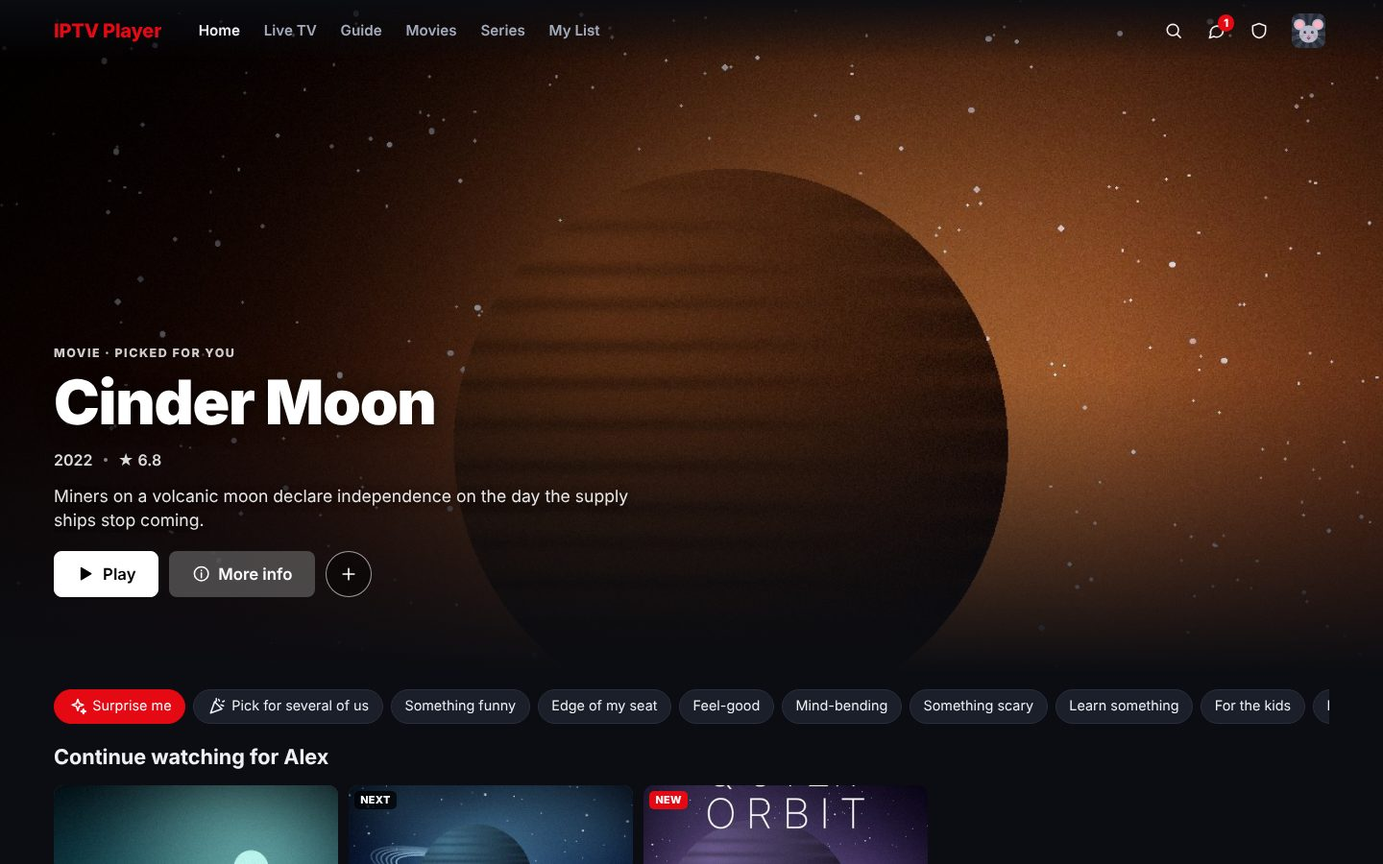
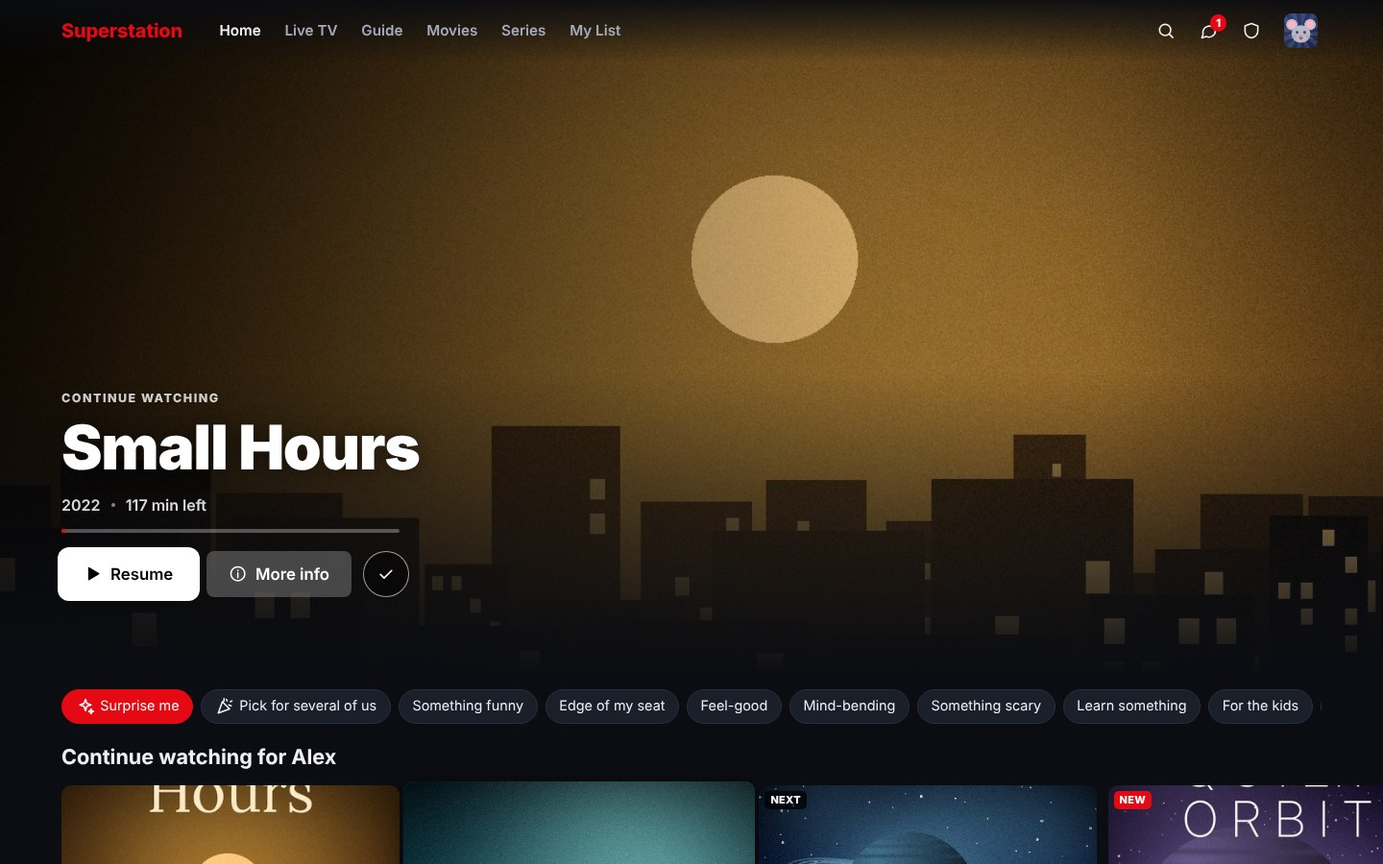
Renamed to Superstation IPTV, version 2.3.0; old backups, links and installs keep working; README opens with what people search for, a one-page website in docs, image labels and package keywords; new home screenshot

diff --git a/docs/index.html b/docs/index.html
@@ -1,0 +1,173 @@
+<!doctype html>
+<html lang="en">
+<head>
+<meta charset="utf-8">
+<meta name="viewport" content="width=device-width, initial-scale=1">
+<title>Superstation IPTV: self-hosted IPTV player, TV guide and DVR in your browser</title>
+<meta name="description" content="Superstation IPTV is a free, self-hosted IPTV player for your household. M3U playlists and Xtream Codes accounts become a Netflix-style app with a TV guide, DVR and profiles, in any web browser. Nothing to install on any device.">
+<link rel="canonical" href="https://austin-72.github.io/superstation-iptv/">
+<meta property="og:type" content="website">
+<meta property="og:title" content="Superstation IPTV: self-hosted IPTV player, TV guide and DVR">
+<meta property="og:description" content="Your M3U playlists and Xtream Codes accounts, turned into a Netflix-style app for the whole household. Runs in any browser. Free and open source.">
+<meta property="og:url" content="https://austin-72.github.io/superstation-iptv/">
+<meta property="og:image" content="https://austin-72.github.io/superstation-iptv/screenshots/home.jpg">
+<meta name="twitter:card" content="summary_large_image">
+<meta name="theme-color" content="#0b0d12">
+<script type="application/ld+json">
+{
+  "@context": "https://schema.org",
+  "@type": "SoftwareApplication",
+  "name": "Superstation IPTV",
+  "alternateName": "Browser IPTV Player",
+  "applicationCategory": "MultimediaApplication",
+  "operatingSystem": "Docker, Linux, Windows, macOS",
+  "description": "A self-hosted IPTV player, TV guide and DVR for a household, used from any web browser. Plays M3U playlists and Xtream Codes accounts.",
+  "url": "https://austin-72.github.io/superstation-iptv/",
+  "codeRepository": "https://github.com/austin-72/superstation-iptv",
+  "license": "https://opensource.org/licenses/MIT",
+  "offers": { "@type": "Offer", "price": "0", "priceCurrency": "USD" }
+}
+</script>
+<style>
+  :root { --bg: #0b0d12; --bg2: #141720; --card: #1b1f2a; --line: #2a2f3d; --text: #eef0f5; --dim: #a3abbd; --accent: #e50914; --max: 68rem; }
+  * { box-sizing: border-box; }
+  html { scroll-behavior: smooth; }
+  body { margin: 0; background: var(--bg); color: var(--text); font: 17px/1.6 system-ui, -apple-system, "Segoe UI", Roboto, "Helvetica Neue", Arial, sans-serif; -webkit-text-size-adjust: 100%; }
+  a { color: inherit; }
+  .wrap { max-width: var(--max); margin: 0 auto; padding: 0 1.25rem; }
+  header.top { display: flex; align-items: center; justify-content: space-between; gap: 1rem; padding: 1.1rem 0; }
+  .brand { font-weight: 850; font-size: 1.3rem; letter-spacing: -.01em; color: #ff3b45; text-decoration: none; }
+  .brand span { color: var(--text); font-weight: 600; }
+  nav a { color: var(--dim); text-decoration: none; margin-left: 1.3rem; font-weight: 600; font-size: .95rem; }
+  nav a:hover, nav a:focus-visible { color: var(--text); }
+  .hero { padding: 3.5rem 0 2rem; text-align: center; }
+  h1 { font-size: clamp(2.1rem, 5.2vw, 3.6rem); line-height: 1.08; letter-spacing: -.03em; margin: 0 auto 1.1rem; max-width: 18ch; }
+  .lede { font-size: clamp(1.05rem, 2.1vw, 1.3rem); color: var(--dim); max-width: 46rem; margin: 0 auto 1.8rem; }
+  .lede b { color: var(--text); font-weight: 600; }
+  .cta { display: flex; gap: .8rem; justify-content: center; flex-wrap: wrap; }
+  .btn { display: inline-block; padding: .8rem 1.4rem; border-radius: 10px; font-weight: 700; text-decoration: none; border: 1px solid var(--line); background: var(--card); }
+  .btn.primary { background: var(--accent); border-color: var(--accent); color: #fff; }
+  .btn:hover, .btn:focus-visible { filter: brightness(1.12); }
+  .shot { margin: 2.6rem auto 0; border: 1px solid var(--line); border-radius: 14px; overflow: hidden; box-shadow: 0 30px 80px rgba(0, 0, 0, .55); max-width: 62rem; }
+  .shot img, .pair img { display: block; width: 100%; height: auto; }
+  .note { color: var(--dim); font-size: .92rem; max-width: 46rem; margin: 1.4rem auto 0; }
+  section { padding: 3.6rem 0 0; }
+  h2 { font-size: clamp(1.5rem, 3vw, 2.1rem); letter-spacing: -.02em; line-height: 1.2; margin: 0 0 .5rem; }
+  .sub { color: var(--dim); margin: 0 0 1.8rem; max-width: 44rem; }
+  .grid { display: grid; grid-template-columns: repeat(auto-fit, minmax(17rem, 1fr)); gap: 1rem; }
+  .card { background: var(--card); border: 1px solid var(--line); border-radius: 14px; padding: 1.2rem 1.3rem; }
+  .card h3 { margin: 0 0 .35rem; font-size: 1.08rem; }
+  .card p { margin: 0; color: var(--dim); font-size: .97rem; }
+  .pair { display: grid; grid-template-columns: repeat(2, 1fr); gap: 1rem; }
+  .pair figure { margin: 0; border: 1px solid var(--line); border-radius: 12px; overflow: hidden; background: var(--bg2); }
+  .pair figcaption { padding: .7rem .9rem; color: var(--dim); font-size: .92rem; }
+  pre { background: #06070a; border: 1px solid var(--line); border-radius: 12px; padding: 1rem 1.2rem; overflow-x: auto; font: .95rem/1.55 ui-monospace, SFMono-Regular, Menlo, Consolas, monospace; color: #dfe5f2; margin: 0 0 1rem; }
+  table { width: 100%; border-collapse: collapse; font-size: .96rem; }
+  .tbl { overflow-x: auto; border: 1px solid var(--line); border-radius: 12px; }
+  th, td { text-align: left; padding: .7rem .9rem; border-bottom: 1px solid var(--line); vertical-align: top; }
+  tr:last-child td { border-bottom: 0; }
+  th { color: var(--dim); font-weight: 600; background: var(--bg2); }
+  td:first-child { color: var(--dim); white-space: nowrap; }
+  details { border-bottom: 1px solid var(--line); padding: .9rem 0; }
+  summary { cursor: pointer; font-weight: 650; }
+  details p { color: var(--dim); margin: .6rem 0 0; max-width: 48rem; }
+  footer { margin-top: 4rem; padding: 2rem 0 3rem; border-top: 1px solid var(--line); color: var(--dim); font-size: .92rem; }
+  footer a { color: var(--text); }
+  :focus-visible { outline: 2px solid #fff; outline-offset: 3px; border-radius: 6px; }
+  @media (max-width: 700px) { .pair { grid-template-columns: 1fr; } }
+  @media (max-width: 560px) { nav a:not(.keep) { display: none; } .hero { padding-top: 2rem; } body { font-size: 16px; } }
+</style>
+</head>
+<body>
+<div class="wrap">
+  <header class="top">
+    <a class="brand" href="./">Superstation <span>IPTV</span></a>
+    <nav aria-label="Sections">
+      <a href="#features">Features</a>
+      <a href="#install">Install</a>
+      <a href="#compare">Compare</a>
+      <a href="#faq">FAQ</a>
+      <a class="keep" href="https://github.com/austin-72/superstation-iptv">GitHub</a>
+    </nav>
+  </header>
+
+  <main>
+    <div class="hero">
+      <h1>Your IPTV, as one app for the whole house</h1>
+      <p class="lede">Superstation IPTV is a free, <b>self-hosted IPTV player</b>. Your M3U playlists and Xtream Codes accounts become a Netflix-style app with a <b>TV guide</b>, a <b>DVR</b> and a profile for everyone, in <b>any web browser</b>. Nothing to install on any device.</p>
+      <div class="cta">
+        <a class="btn primary" href="#install">Install with Docker</a>
+        <a class="btn" href="https://github.com/austin-72/superstation-iptv">See it on GitHub</a>
+      </div>
+      <div class="shot"><img src="screenshots/home.jpg" width="1440" height="900" alt="The Superstation IPTV home screen: a featured title, a Continue watching row and rows of films and series"></div>
+      <p class="note"><b>Bring your own content.</b> This is a player. It comes with no channels, films or accounts: you add the playlists or provider logins you are entitled to use. Everything in these pictures is made up.</p>
+    </div>
+
+    <section id="features">
+      <h2>One small server at home, every screen in the house</h2>
+      <p class="sub">Add your lists once. Everyone opens the site, picks their profile and watches.</p>
+      <div class="grid">
+        <div class="card"><h3>Works on any device with a browser</h3><p>Computers, phones, tablets, smart TVs and games consoles, with a layout and remote-control navigation for each. Installable as an app, with thin TV wrappers if you want an icon on the TV.</p></div>
+        <div class="card"><h3>Live TV with a real guide</h3><p>Channel numbers, a full TV guide from XMLTV or Schedules Direct, catch-up, rewind and pause, multiview, and reminders for what's on later.</p></div>
+        <div class="card"><h3>Films and series that look the part</h3><p>Posters, plots, cast and trailers. Several providers are merged into one tidy catalogue with the duplicates folded together, sorted the way a streaming service would.</p></div>
+        <div class="card"><h3>DVR</h3><p>Record a programme, or every episode of a series, straight from the guide. Keep rules stop it filling the disk.</p></div>
+        <div class="card"><h3>Made for households</h3><p>Profiles with PINs, kids profiles, age limits, screen time and bedtime, parental locks, and a manager role for a second grown-up.</p></div>
+        <div class="card"><h3>Video goes direct when it can</h3><p>Streams play straight from the provider to the viewer wherever possible. The server only steps in to convert what a device can't play, and it knows your provider's connection limit.</p></div>
+        <div class="card"><h3>Plays almost anything</h3><p>HLS, MPEG-TS, MP4, MKV and DASH; M3U, Xtream Codes, Stalker portals, and Jellyfin, Emby or Plex libraries. Subtitles from the file, found online, or picture subtitles.</p></div>
+        <div class="card"><h3>Works with the apps you have</h3><p>An Xtream Codes login per profile for TiviMate and friends, and an HDHomeRun tuner for Plex, Jellyfin and Emby.</p></div>
+        <div class="card"><h3>Simple to run</h3><p>One Docker container. No database, no npm packages: Node.js and ffmpeg are all it needs. Free and open source under the MIT licence.</p></div>
+      </div>
+    </section>
+
+    <section aria-label="Screenshots">
+      <div class="pair">
+        <figure><img src="screenshots/guide.jpg" width="1440" height="900" loading="lazy" alt="The TV guide: channels down the side and programmes across a timeline"><figcaption>The TV guide</figcaption></figure>
+        <figure><img src="screenshots/title.jpg" width="1440" height="900" loading="lazy" alt="A film's page with its poster, plot, cast and a Play button"><figcaption>A title's page</figcaption></figure>
+        <figure><img src="screenshots/phones.jpg" width="1700" height="900" loading="lazy" alt="The app on phones: home, live TV and the player"><figcaption>On a phone</figcaption></figure>
+        <figure><img src="screenshots/tv.jpg" width="2004" height="596" loading="lazy" alt="The app on a television, with big remote-friendly rows"><figcaption>On a TV</figcaption></figure>
+      </div>
+    </section>
+
+    <section id="install">
+      <h2>Install</h2>
+      <p class="sub">With Docker, on anything from a Raspberry Pi to a NAS (amd64 and arm64):</p>
+<pre>docker run -d --name iptv -p 8080:8080 \
+  -v "$PWD/data:/data" --restart unless-stopped \
+  ghcr.io/austin-72/superstation-iptv:latest</pre>
+      <p class="sub">Then open <b>http://&lt;that computer's address&gt;:8080</b>, set a password and add a playlist. The <a href="https://github.com/austin-72/superstation-iptv#quick-start">quick start</a> has Docker Compose, running it without Docker, and the first five minutes.</p>
+    </section>
+
+    <section id="compare">
+      <h2>How it compares</h2>
+      <p class="sub">Most IPTV players are an app you set up again on every device. Media servers are built around your own files, with IPTV on the side.</p>
+      <div class="tbl">
+        <table>
+          <thead><tr><th></th><th>Superstation IPTV</th><th>IPTV apps (TiviMate, IPTV Smarters)</th><th>Media servers (Jellyfin, Plex)</th></tr></thead>
+          <tbody>
+            <tr><td>Where it runs</td><td>Any browser, from one server at home</td><td>An app on each device</td><td>A server plus an app on each device</td></tr>
+            <tr><td>Setting up</td><td>Once, for everyone</td><td>On every device</td><td>Once, mostly for your own files</td></tr>
+            <tr><td>IPTV lists</td><td>What it is built for</td><td>What they are built for</td><td>An add-on</td></tr>
+            <tr><td>Household</td><td>Profiles, kids, screen time, shared history</td><td>Per device</td><td>Profiles</td></tr>
+            <tr><td>Cost</td><td>Free, open source</td><td>Often paid</td><td>Free or paid tiers</td></tr>
+          </tbody>
+        </table>
+      </div>
+    </section>
+
+    <section id="faq">
+      <h2>Questions</h2>
+      <details><summary>Does it come with channels or films?</summary><p>No. It is a player. You add M3U playlists, Xtream Codes accounts or your own media folders that you are entitled to use.</p></details>
+      <details><summary>Do I need to install an app on my TV or phone?</summary><p>No. Open the address in the device's browser. It can be added to the home screen as an app, and there are optional thin wrappers for Android TV, Fire TV, Samsung and LG.</p></details>
+      <details><summary>Does all the video go through my server?</summary><p>Only when it has to. Streams go straight from the provider to the viewer whenever the device can play them, and the server converts the rest with ffmpeg.</p></details>
+      <details><summary>Can I keep using TiviMate, Plex or Jellyfin?</summary><p>Yes. Each profile can have an Xtream Codes login for other apps, and the server can appear as an HDHomeRun tuner to Plex, Jellyfin and Emby.</p></details>
+      <details><summary>Wasn't this called Browser IPTV Player?</summary><p>Yes, until version 2.3. It is the same project; old links, backups and installs keep working.</p></details>
+    </section>
+  </main>
+
+  <footer>
+    <p>Superstation IPTV is free and open source (MIT). <a href="https://github.com/austin-72/superstation-iptv">Source and documentation on GitHub</a> · <a href="https://github.com/austin-72/superstation-iptv/blob/main/SECURITY.md">Security</a></p>
+    <p>Not affiliated with any TV provider or broadcaster. Film and series details, where shown, come from TMDB.</p>
+  </footer>
+</div>
+</body>
+</html>

diff --git a/server.js b/server.js
@@ -70,7 +70,7 @@ const reports = new ErrorReports({ dataDir: D, log, version: cfg.version, root: 
 fs.mkdirSync(D, { recursive: true });
 const preset = cfg.presets || {};
 const DEFAULT_SETTINGS = {
-  brand: { name: (preset.brand && preset.brand.name) || 'IPTV Player', logo: (preset.brand && preset.brand.logo) || '', accent: (preset.brand && preset.brand.accent) || '' },
+  brand: { name: (preset.brand && preset.brand.name) || 'Superstation', logo: (preset.brand && preset.brand.logo) || '', accent: (preset.brand && preset.brand.accent) || '' },
   userAgent: 'VLC/3.0.21 LibVLC/3.0.21',
   routing: 'direct-first', // 'direct-first' | 'server' | 'direct-only'
   defaultLangs: Array.isArray(preset.defaultLangs) ? preset.defaultLangs : [],
@@ -1859,7 +1859,7 @@ route('GET', '/api/admin/stats/concurrency', (req, res, p, q, ctx) => {
 });
 // The optional browser helper for desktop Chrome/Edge (extension/), named after this site.
 route('GET', '/api/direct-helper.zip', (req, res) => {
-  const name = `${settings().brand.name || 'IPTV Player'} – Direct Streams`.slice(0, 75);
+  const name = `${settings().brand.name || 'Superstation'} – Direct Streams`.slice(0, 75);
   const buf = zipFolder(path.join(cfg.root, 'extension'), 'direct-streams-helper', (file, data) => {
     if (file !== 'manifest.json') return data;
     const m = JSON.parse(data.toString('utf8'));
@@ -3147,6 +3147,9 @@ route('GET', '/api/admin/fs', async (req, res, p, q, ctx) => {
  * Everything worth keeping in the data folder, as one gzipped file. Provider downloads (Xtream/M3U copies) are left
  * out — they're fetched again after a restore — except uploaded playlist files, which can't be.
  */
+// What a backup says it is from. (The project was called browser-iptv-player until 2.3: its backups are still taken.)
+const APP_ID = 'superstation-iptv';
+const APP_IDS = [APP_ID, 'browser-iptv-player'];
 function makeBackup() {
   JsonFile.flushAll();
   const files = {};
@@ -3159,7 +3162,7 @@ function makeBackup() {
     }
   };
   walk(D, '');
-  return zlib.gzipSync(Buffer.from(JSON.stringify({ app: 'browser-iptv-player', version: cfg.version, createdAt: new Date().toISOString(), files })));
+  return zlib.gzipSync(Buffer.from(JSON.stringify({ app: APP_ID, version: cfg.version, createdAt: new Date().toISOString(), files })));
 }
 route('GET', '/api/admin/backup', (req, res, p, q, ctx) => {
   requireAdmin(ctx);
@@ -3207,7 +3210,7 @@ route('POST', '/api/admin/backups/:name/restore', (req, res, p, q, ctx) => {
   return { ok: true, restart: true };
 });
 function restoreFiles(data) {
-  if (!data || data.app !== 'browser-iptv-player' || !data.files || typeof data.files !== 'object') throw new HttpError(400, 'That isn’t a backup file from this app.');
+  if (!data || !APP_IDS.includes(data.app) || !data.files || typeof data.files !== 'object') throw new HttpError(400, 'That isn’t a backup file from this app.');
   // (Checked whole before anything is written: a file that's wrong part-way through used to leave half the old data
   // and half the new.)
   for (const [rel, b64] of Object.entries(data.files)) if (typeof rel !== 'string' || typeof b64 !== 'string') throw new HttpError(400, 'That backup file is damaged — nothing was changed.');
@@ -3294,7 +3297,7 @@ route('POST', '/api/admin/update', async (req, res, p, q, ctx) => {
   const buf = await readBody(req, 100 * 1024 * 1024);
   let files;
   try { files = unzip(buf); } catch (e) { throw new HttpError(400, e.message); }
-  // A zip of the folder ("browser-iptv-player/server.js") or of its contents ("server.js").
+  // A zip of the folder ("superstation-iptv/server.js") or of its contents ("server.js").
   const prefix = files.some((f) => f.name === 'server.js') ? '' : ((files.find((f) => /(^|\/)server\.js$/.test(f.name)) || {}).name || '').replace(/server\.js$/, '');
   const picked = files.map((f) => ({ ...f, rel: f.name.startsWith(prefix) ? f.name.slice(prefix.length) : '' })).filter((f) => f.rel && CODE_FILES.test(f.rel) && !f.rel.includes('..'));
   if (!picked.some((f) => f.rel === 'server.js') || !picked.some((f) => f.rel === 'package.json')) throw new HttpError(400, 'That zip doesn’t contain this app (no server.js / package.json).');
@@ -3390,7 +3393,7 @@ function exportM3U(req, res, key) {
 }
 function exportXmltv(req, res) {
   const now = Date.now();
-  const out = ['<?xml version="1.0" encoding="UTF-8"?>', '<tv generator-info-name="browser-iptv-player">'];
+  const out = ['<?xml version="1.0" encoding="UTF-8"?>', '<tv generator-info-name="superstation-iptv">'];
   const live = catalog.items.filter((it) => it.epg && !it.adult && p4.exportable(it));
   for (const it of live) out.push(`<channel id="${xmlEsc(it.k)}"><display-name>${xmlEsc(it.n)}</display-name>${it.logo ? `<icon src="${xmlEsc(it.logo)}"/>` : ''}</channel>`);
   for (const it of live) {

diff --git a/lib/outputs.js b/lib/outputs.js
@@ -343,7 +343,7 @@ class Outputs {
     const now = Date.now();
     const days = Number(this.d.settings().epgDays) || 3;
     res.writeHead(200, { 'Content-Type': 'application/xml; charset=utf-8', 'Cache-Control': 'no-store' });
-    res.write('<?xml version="1.0" encoding="UTF-8"?>\n<tv generator-info-name="browser-iptv-player">\n');
+    res.write('<?xml version="1.0" encoding="UTF-8"?>\n<tv generator-info-name="superstation-iptv">\n');
     const list = [...items].filter((it) => it.epg);
     let buf = [];
     const flush = async () => { if (!buf.length) return; const ok = res.write(buf.join('')); buf = []; if (!ok) await drained(res); else await new Promise((r) => setImmediate(r)); };
@@ -432,7 +432,7 @@ class Outputs {
     const c = this.cfg.hdhr;
     const base = `http://${req.headers.host}`;
     if (pathname === '/discover.json') {
-      return sendJSON(res, 200, { FriendlyName: `${(this.d.settings().brand || {}).name || 'IPTV Player'} tuner`, Manufacturer: 'Silicondust', ManufacturerURL: 'https://github.com/austin-72/browser-iptv-player', ModelNumber: 'HDTC-2US', FirmwareName: 'hdhomeruntc_atsc', FirmwareVersion: '20200101', DeviceID: c.deviceId, DeviceAuth: 'browseriptv', BaseURL: base, LineupURL: `${base}/lineup.json`, TunerCount: c.tuners || 2 });
+      return sendJSON(res, 200, { FriendlyName: `${(this.d.settings().brand || {}).name || 'Superstation'} tuner`, Manufacturer: 'Silicondust', ManufacturerURL: 'https://github.com/austin-72/superstation-iptv', ModelNumber: 'HDTC-2US', FirmwareName: 'hdhomeruntc_atsc', FirmwareVersion: '20200101', DeviceID: c.deviceId, DeviceAuth: 'browseriptv', BaseURL: base, LineupURL: `${base}/lineup.json`, TunerCount: c.tuners || 2 });
     }
     if (pathname === '/lineup_status.json') return sendJSON(res, 200, { ScanInProgress: 0, ScanPossible: 1, Source: 'Cable', SourceList: ['Cable'] });
     if (pathname === '/lineup.post') { res.writeHead(200); return res.end(); }
@@ -442,7 +442,7 @@ class Outputs {
       return sendJSON(res, 200, lu.map((x) => ({ GuideNumber: x.num, GuideName: x.it.n, URL: `${base}/auto/v${x.num}` })));
     }
     if (pathname === '/device.xml') {
-      return sendText(res, 200, `<?xml version="1.0" encoding="UTF-8"?><root xmlns="urn:schemas-upnp-org:device-1-0"><URLBase>${base}</URLBase><specVersion><major>1</major><minor>0</minor></specVersion><device><deviceType>urn:schemas-upnp-org:device:MediaServer:1</deviceType><friendlyName>IPTV Player tuner</friendlyName><manufacturer>Silicondust</manufacturer><modelName>HDTC-2US</modelName><modelNumber>HDTC-2US</modelNumber><serialNumber>${c.deviceId}</serialNumber><UDN>uuid:${c.deviceId}-0000-0000-0000-000000000000</UDN></device></root>`, 'application/xml');
+      return sendText(res, 200, `<?xml version="1.0" encoding="UTF-8"?><root xmlns="urn:schemas-upnp-org:device-1-0"><URLBase>${base}</URLBase><specVersion><major>1</major><minor>0</minor></specVersion><device><deviceType>urn:schemas-upnp-org:device:MediaServer:1</deviceType><friendlyName>Superstation tuner</friendlyName><manufacturer>Silicondust</manufacturer><modelName>HDTC-2US</modelName><modelNumber>HDTC-2US</modelNumber><serialNumber>${c.deviceId}</serialNumber><UDN>uuid:${c.deviceId}-0000-0000-0000-000000000000</UDN></device></root>`, 'application/xml');
     }
     if (pathname === '/hdhr/epg.xml' || pathname === '/epg.xml') {
       const lu = this._lineup();

diff --git a/test/schedulesdirect.test.js b/test/schedulesdirect.test.js
@@ -32,7 +32,7 @@ async function pretendSd() {
       const send = (code, j) => { res.writeHead(code, { 'Content-Type': 'application/json' }); res.end(JSON.stringify(j)); };
       let j = null; try { j = JSON.parse(body); } catch {}
       if (p === '/token') {
-        if (!/browser-iptv-player/.test(req.headers['user-agent'] || '')) return send(400, { code: 1005, message: 'Unknown client' });
+        if (!/superstation-iptv/.test(req.headers['user-agent'] || '')) return send(400, { code: 1005, message: 'Unknown client' });
         if (!j || j.username !== 'viewer' || j.password !== sha1('the-right-password')) return send(400, { code: 4003, message: 'Invalid username or password.' });
         sd.token = 'tok-' + (++sd.n);
         return send(200, { code: 0, message: 'OK', token: sd.token, tokenExpires: Math.round(Date.now() / 1000) + 86400 });
@@ -74,7 +74,7 @@ test('Schedules Direct: one sign-in, a lineup’s listings, only what changed as
   try {
     const cred = { user: 'viewer', hash: SchedulesDirect.hash('the-right-password') };
     assert.match(cred.hash, /^[0-9a-f]{40}$/);
-    let sd = new SchedulesDirect({ dataDir: dir, base: pv.base, ua: 'browser-iptv-player/test' });
+    let sd = new SchedulesDirect({ dataDir: dir, base: pv.base, ua: 'superstation-iptv/test' });
     assert.deepStrictEqual(await sd.lineups(cred), [{ id: 'USA-OTA-90210', name: 'Local Over the Air Broadcast', transport: 'Antenna', location: '90210' }]);
 
     const g = await sd.guide(cred, 'USA-OTA-90210', { days: 2 });
@@ -92,7 +92,7 @@ test('Schedules Direct: one sign-in, a lineup’s listings, only what changed as
     assert.strictEqual(pv.programs, 4);
 
     // Again — after a restart too (the token and the details were kept): no sign-in, and only the one still waiting is asked for.
-    sd = new SchedulesDirect({ dataDir: dir, base: pv.base, ua: 'browser-iptv-player/test' });
+    sd = new SchedulesDirect({ dataDir: dir, base: pv.base, ua: 'superstation-iptv/test' });
     await sd.guide(cred, 'USA-OTA-90210', { days: 2 });
     assert.strictEqual(pv.count('POST /token'), 1, 'the token is kept for its day');
     assert.strictEqual(pv.programs, 5);

diff --git a/web/js/admin.js b/web/js/admin.js
@@ -882,7 +882,7 @@ V.adminTabs.network = function (body, A) {
       (function () {
         var r = st.relay || {};
         var https = location.protocol === 'https:';
-        return '<section class="card-sec"><h2>Stream relay</h2><p class="dim">Send viewers’ <b>direct</b> streams through a small relay on an internet machine of yours (a VPS) instead of straight from the provider. The provider then only sees the relay’s address, never your home’s or your viewers’, and this server still carries none of the video. It also lets streams play that a provider normally only allows in apps. <a href="https://github.com/austin-72/browser-iptv-player/blob/main/docs/stream-relay.md" target="_blank" rel="noopener">How to set one up</a> (about 10 minutes).</p>' +
+        return '<section class="card-sec"><h2>Stream relay</h2><p class="dim">Send viewers’ <b>direct</b> streams through a small relay on an internet machine of yours (a VPS) instead of straight from the provider. The provider then only sees the relay’s address, never your home’s or your viewers’, and this server still carries none of the video. It also lets streams play that a provider normally only allows in apps. <a href="https://github.com/austin-72/superstation-iptv/blob/main/docs/stream-relay.md" target="_blank" rel="noopener">How to set one up</a> (about 10 minutes).</p>' +
           '<label class="field"><span>The relay’s address</span><input class="input" data-relay-url value="' + V.esc(r.url || '') + '" placeholder="https://relay.example.com"><small class="dim">' + (https ? 'This page is on https, so the relay needs an https address too.' : 'An https address is best; plain http works only while this app is opened on plain http.') + '</small></label>' +
           '<label class="check"><input type="checkbox" data-relay-all' + (r.all !== false ? ' checked' : '') + '><span>Use it for every list (each list can still choose in its own settings)</span></label>' +
           '<label class="field"><span>How the relay connects to providers</span><select class="input" data-relay-proxy>' +

diff --git a/test/backup.test.js b/test/backup.test.js
@@ -72,7 +72,7 @@ test('a backup put back into an empty server brings everything back', { timeout:
     assert.strictEqual(r.status, 200);
     const backup = Buffer.from(await r.arrayBuffer());
     const inside = JSON.parse(zlib.gunzipSync(backup).toString('utf8'));
-    assert.strictEqual(inside.app, 'browser-iptv-player');
+    assert.strictEqual(inside.app, 'superstation-iptv');
     assert.ok(Object.keys(inside.files).some((f) => /accounts\.json$/.test(f)) && Object.keys(inside.files).some((f) => /settings\.json$/.test(f)));
     a.stop(); await a.exited();
 
@@ -91,7 +91,11 @@ test('a backup put back into an empty server brings everything back', { timeout:
     assert.strictEqual((await b.raw('POST', '/api/admin/restore', backup, { 'X-Admin-Pin': '1111' })).status, 403, 'nor with a wrong one');
     assert.strictEqual((await b.raw('POST', '/api/admin/update', Buffer.from('PK'), {})).status, 403, 'an update neither');
     assert.strictEqual((await b.req('GET', '/api/boot')).json.profiles.length, 1, 'nothing changed');
-    const put = await b.raw('POST', '/api/admin/restore', backup, { 'Content-Type': 'application/gzip', 'X-Admin-Pin': '0000' });
+    // (The one put back says it's from "browser-iptv-player", as every backup made before the project was renamed does:
+    // those are still taken. One from some other program isn't.)
+    const fromBefore = zlib.gzipSync(Buffer.from(JSON.stringify({ ...inside, app: 'browser-iptv-player' })));
+    assert.strictEqual((await b.raw('POST', '/api/admin/restore', zlib.gzipSync(Buffer.from(JSON.stringify({ ...inside, app: 'something-else' }))), { 'X-Admin-Pin': '0000' })).status, 400);
+    const put = await b.raw('POST', '/api/admin/restore', fromBefore, { 'Content-Type': 'application/gzip', 'X-Admin-Pin': '0000' });
     assert.strictEqual(put.status, 200, await put.text());
     assert.strictEqual(await b.exited(), 0, 'it restarts itself after a restore');
 

diff --git a/lib/webhooks.js b/lib/webhooks.js
@@ -76,7 +76,7 @@ class Webhooks {
     const body = JSON.stringify(msg);
     const entry = { id: uid(), hook: h.id, name: h.name, event: msg.event, at: Date.now(), attempt: attempt + 1, status: 0, ok: false, error: '' };
     try {
-      const r = await this.fetch(h.url, { method: 'POST', headers: { 'Content-Type': 'application/json', 'User-Agent': 'BrowserIPTVPlayer-Webhook/1', 'X-Event': msg.event, 'X-Signature': sign(h.secret, body), 'X-Delivery': entry.id }, body, signal: AbortSignal.timeout(10000) });
+      const r = await this.fetch(h.url, { method: 'POST', headers: { 'Content-Type': 'application/json', 'User-Agent': 'SuperstationIPTV-Webhook/1', 'X-Event': msg.event, 'X-Signature': sign(h.secret, body), 'X-Delivery': entry.id }, body, signal: AbortSignal.timeout(10000) });
       entry.status = r.status;
       entry.ok = r.status >= 200 && r.status < 300;
       try { await r.arrayBuffer(); } catch {}

diff --git a/test/tvapps.test.js b/test/tvapps.test.js
@@ -68,7 +68,7 @@ test('the address page: tidies what was typed, opens only what answers, and Up c
 });
 
 test('Android TV: what the pages ask of the app is there, and Back goes to the pages', () => {
-  const java = read('android', 'app', 'src', 'main', 'java', 'org', 'iptvplayer', 'tv', 'MainActivity.java');
+  const java = read('android', 'app', 'src', 'main', 'java', 'org', 'superstation', 'tv', 'MainActivity.java');
   const tv = fs.readFileSync(path.join(__dirname, '..', 'web', 'js', 'tv.js'), 'utf8');
   // The bridge the pages look for (web/js/tv.js: V.inTvApp, V.leaveApp).
   assert.match(java, /addJavascriptInterface\(new Bridge\(\), "TvApp"\)/);

diff --git a/lib/schedulesdirect.js b/lib/schedulesdirect.js
@@ -51,7 +51,7 @@ class SchedulesDirect {
   /** { dataDir, ua, base?, fetch? } */
   constructor({ dataDir, ua, base, fetch: f } = {}) {
     this.base = String(base || process.env.SCHEDULES_DIRECT_URL || BASE).replace(/\/+$/, '');
-    this.ua = ua || 'browser-iptv-player';
+    this.ua = ua || 'superstation-iptv';
     this.fetch = f || fetch;
     this.file = dataDir ? path.join(dataDir, 'sd-cache.json') : '';
     this.cache = null; // { tokens: { user: { token, exp } }, programs: { programID: [md5, title, episode title, description, episode label, genres, rating] } }

diff --git a/lib/publicdb.js b/lib/publicdb.js
@@ -149,7 +149,7 @@ class PublicDb {
   }
 
   async _get(url, signal) {
-    const res = await this.fetch(url, { headers: { 'User-Agent': 'browser-iptv-player (guide finder)', Accept: '*/*' }, redirect: 'follow', signal });
+    const res = await this.fetch(url, { headers: { 'User-Agent': 'superstation-iptv (guide finder)', Accept: '*/*' }, redirect: 'follow', signal });
     if (!res.ok) { try { res.body && res.body.cancel(); } catch {} throw Object.assign(new Error(`HTTP ${res.status}`), { status: res.status }); }
     return Readable.fromWeb(res.body);
   }

diff --git a/lib/lists.js b/lib/lists.js
@@ -172,7 +172,7 @@ class Lists {
         return this.sd.guide({ user: g.sd.user, hash: g.sd.hash }, g.url.slice(3), { days: Number(this.getSettings().epgDays) || 7 });
       },
     };
-    this.sd = new SchedulesDirect({ dataDir: dir, ua: `browser-iptv-player/${require('../package.json').version}` });
+    this.sd = new SchedulesDirect({ dataDir: dir, ua: `superstation-iptv/${require('../package.json').version}` });
   }
 
   /** Kinds whose saved copy is JSON (an API's answers) rather than a playlist. */

diff --git a/relay/relay.js b/relay/relay.js
@@ -1,5 +1,5 @@
 #!/usr/bin/env node
-// Stream relay for Browser IPTV Player — run it on a small internet machine (a VPS) so viewers' devices fetch their
+// Stream relay for Superstation IPTV — run it on a small internet machine (a VPS) so viewers' devices fetch their
 // streams through it instead of straight from the provider. The provider only ever sees this machine's address, and
 // your home server carries none of the video. One file, Node 18+, no packages.
 //
